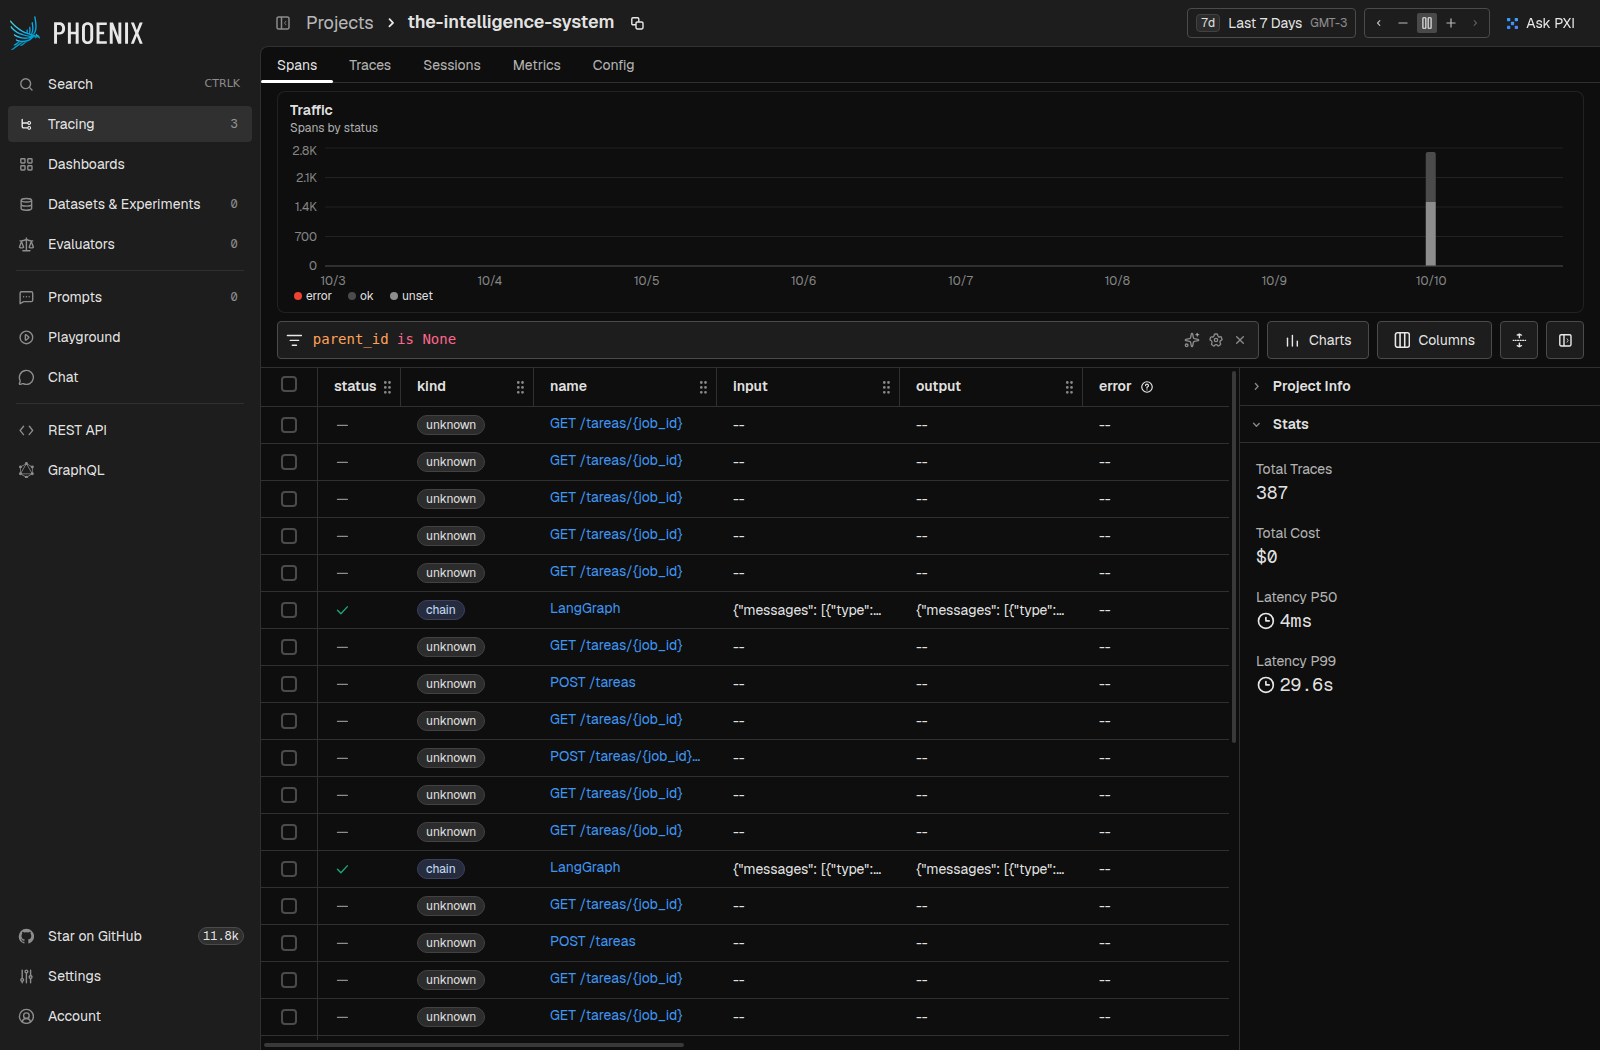
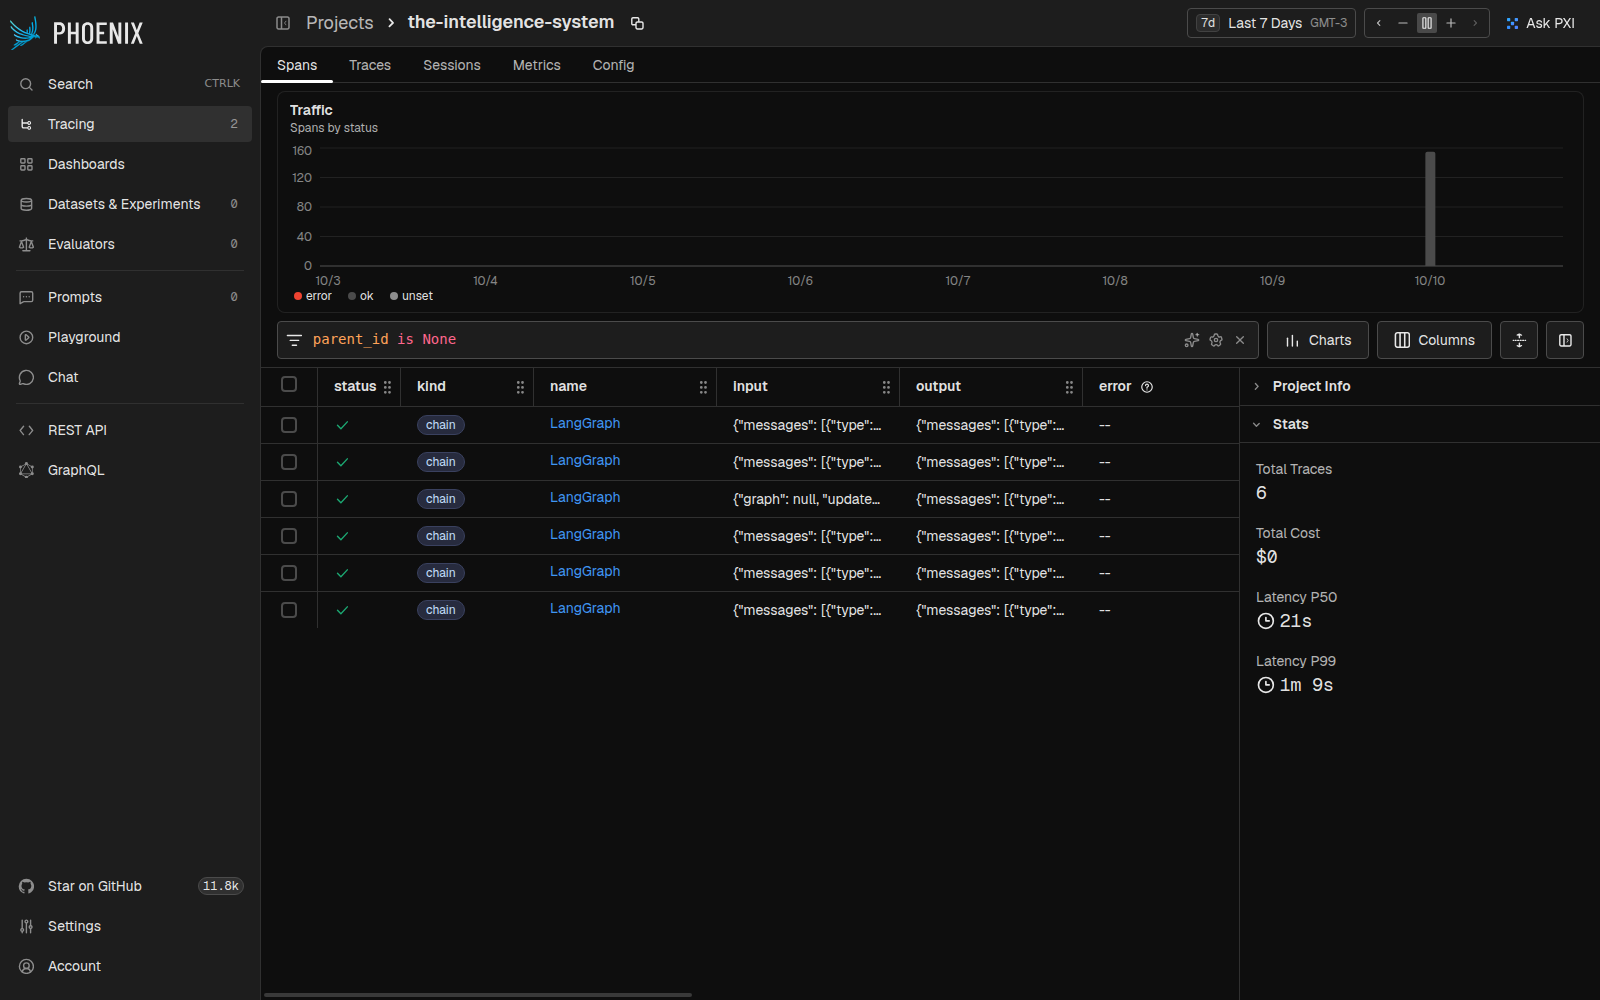
las cinco corridas, las capturas del dashboard y el cierre del readme
Con el bucle arreglado corrí los cinco escenarios contra la API real (worker en otro proceso, Phoenix
registrando y el historial limpio antes de la sesión, para que el p95 sea de estas corridas y no de
las de depuración):

  1. una sola capa (ley)                 done       70,8 s   4 pasos
  2. dos dominios con cálculo            done       51,4 s   2 pasos
  3. acción con efecto: la persona aprueba   done   30,4 s   1 paso
  4. acción con efecto: la persona rechaza   rechazado  6,1 s   0 pasos
  5. consulta sin cobertura (no inventa) done       21,3 s   0 pasos

Los cinco cerraron como se esperaba. Lo que más me importa de estas corridas:

- la pausa por aprobación funciona de las dos maneras: queda esperando con la instrucción a la vista y
  cero pasos ejecutados, y con el OK sigue; con el rechazo cierra el trabajo;
- la consulta que no está en el corpus NO se inventa nada: contesta que no tiene los datos;
- el cálculo sale de la herramienta y no del modelo (21 días de licencia y $ 93.030 de salario
  vacacional, tomando el jornal líquido del legajo).

Cuatro capturas del dashboard en screenshots/, con el árbol de la traza (los nodos del grafo), la vista
de métricas con costo, percentiles y tokens, y la API documentada.

También corregí la instrumentación: la API había quedado activando las trazas (para que /health dijera
true) y eso llenaba el dashboard de spans de GET /tareas. Vuelve a instrumentar sólo el worker, y el
[…]

diff --git a/README.md b/README.md
@@ -156,15 +156,65 @@ El salario vacacional equivale al 100 % del jornal líquido ($ 4.010 por día):
   - por los 12 días pendientes:      $ 48.120
 ```
 
-## Qué falta
+## Las cinco corridas
 
-El sistema está completo y corre: recuperación híbrida, cliente multi-proveedor, agentes con supervisor,
-grafo con checkpointer y aprobación humana, API con worker y cola, y trazas. Me falta el arranque con un
-solo comando (Docker Compose y un `run.sh`), las cinco corridas con sus capturas y la tabla de costo y
-latencia, y las capturas del dashboard de Phoenix.
+Lo que pide la consigna: al menos cinco pruebas del sistema con las trazas visibles. En vez de mandar
+cinco veces la misma consulta, va una corrida por escenario, contra la API real, con el worker en otro
+proceso y Phoenix registrando. Salida cruda de `python scripts/escenarios.py`:
 
-Lo dejo dicho acá y no como sorpresa. Me tocó entregar cosas incompletas sin decirlo y no pienso
-repetirlo.
+| Escenario | Resultado | Tiempo | Pasos | Quién aportó |
+|---|---|---|---|---|
+| 1. una sola capa (consulta de ley) | `done` | 70,8 s | 4 | investigador, analista |
+| 2. dos dominios con cálculo | `done` | 51,4 s | 2 | investigador, analista |
+| 3. acción con efecto, la persona aprueba | `done` | 30,4 s | 1 | investigador |
+| 4. acción con efecto, la persona rechaza | `rechazado` | 6,1 s | 0 | — |
+| 5. consulta sin cobertura del corpus | `done` | 21,3 s | 0 | — |
+
+Tres cosas que muestran, y que son las que elijo mirar:
+
+1. **La pausa funciona.** En el escenario 3 el trabajo quedó esperando aprobación con la instrucción a
+   la vista y **cero pasos ejecutados**, y siguió después del OK. En el 4, el rechazo cerró el trabajo
+   en 6 segundos.
+2. **La consulta sin cobertura no se inventa nada**: *"Actualmente no dispongo de los datos sobre el
+   costo de los pasajes a Miami para enero ni de recomendaciones específicas de hoteles (...) sin
+   inventar números"*.
+3. **El cálculo sale de la herramienta, no del modelo**: en el escenario 2 la respuesta trae los 21 días
+   de licencia de Bruno (20 de la ley más el día que agrega Nordika a los 3 años) y el salario vacacional
+   calculado con el jornal líquido de su legajo: 4.430 × 21 = **$ 93.030**.
+
+## Las capturas y los números del dashboard
+
+Las cuatro capturas están en [`screenshots/`](screenshots) y son del dashboard real, con el historial
+limpio antes de la sesión (si no, el p95 mezcla corridas viejas):
+
+| Captura | Qué muestra |
+|---|---|
+| `01-trazas.png` | Las seis trazas del proyecto, una por corrida más la de la prueba de la pausa |
+| `02-trazas-del-grafo.png` | Una traza abierta: el árbol con los nodos (`supervisor`, `aprobacion`, `validacion`, `sintesis`) y arriba el costo y la latencia de esa ejecución |
+| `03-latencia-costos.png` | La vista de métricas: el costo estimado, los percentiles de latencia (max, p50, p75, p90, p95, p99) y el consumo de tokens |
+| `04-api-docs.png` | La API documentada y navegable que trae FastAPI (`/docs`), con los cuatro endpoints y sus esquemas |
+
+Números leídos del dashboard después de las cinco corridas: **6 trazas**, **latencia P50 21 s**,
+**P99 1 m 9 s**, y en la traza abierta **costo $ 0,01 con latencia 19,5 s**.
+
+Dos notas honestas sobre estas métricas:
+
+- **El costo.** La consigna pide el costo por ejecución, que la plataforma calcula desde los tokens. Con
+  la capa gratis de Gemini ese costo da **$ 0,00**, así que dejo las dos capturas: la de costo (con la
+  línea en cero) y la de **tokens** (más de 40.000 en la sesión), que es la métrica que se mueve de
+  verdad. Corriendo con un proveedor pago, esa misma captura muestra el costo real.
+- **El p95.** Con cinco corridas el p95 es prácticamente el máximo (el más lento fue 70,8 s). Por eso
+  también anoto el P50 y el P99 del dashboard, que es lo que se ve en la captura de métricas.
+
+## Lo que queda anotado
+
+Nada de esto bloquea la entrega; lo dejo escrito porque lo vi y prefiero que esté dicho:
+
+- En el escenario 1 el supervisor mandó **tres veces** al analista antes de cerrar: el validador no le
+  reconoció el aporte a la primera y el corte por pasos terminó cerrando el trabajo. La respuesta salió
+  bien, pero es lo próximo a afinar (que un aporte con la cuenta hecha cuente como aporte).
+- El costo con la capa gratis del modelo da cero, como expliqué arriba.
+
 
 ## Requisitos
 

diff --git a/docs/arquitectura.md b/docs/arquitectura.md
@@ -71,10 +71,22 @@ citar y para que la búsqueda pueda filtrar por capa.
 
 ## Observabilidad
 
-Cada nodo deja su traza en Arize Phoenix: prompt, respuesta, tokens, costo y latencia. La instrumentación
-va solo sobre LangChain y no sobre FastAPI. Si se instrumenta todo, el dashboard se llena de spans de
-`GET /tareas/<id>`, que es el polling del cliente, y las trazas de los agentes quedan enterradas. Lo
-descubrí mirando un dashboard lleno de consultas de estado y ni un solo span del supervisor.
+Cada nodo deja su traza en Arize Phoenix: prompt, respuesta, tokens, costo y latencia. La
+instrumentación va **solo en el worker**, que es el proceso donde corre el grafo, y solo sobre
+LangChain.
+
+Lo aprendí de dos maneras, las dos en corridas reales:
+
+- Si se instrumenta también **FastAPI**, el dashboard se llena de spans de `GET /tareas/<job_id>` (el
+  polling del cliente) y las trazas de los agentes quedan enterradas. Lo medí: 387 trazas en el
+  proyecto, casi todas de consultas de estado, y ni un solo span visible del supervisor sin filtrar.
+- Si la **API** activa la instrumentación sólo para que el `/health` diga "trazas: true", el efecto es
+  el mismo. El `/health` ahora informa otra cosa (si el sistema tiene la trazabilidad configurada), y
+  la API no toca la instrumentación.
+
+Y una práctica que ayuda a que los números signifiquen algo: **limpiar el historial de Phoenix antes de
+la sesión de pruebas**. El p95 se calcula sobre todas las trazas del proyecto, así que si quedan las de
+corridas viejas (o las de depuración), el número no es el de la corrida que estás midiendo.
 
 ## Decisiones que sostengo por un motivo
 
